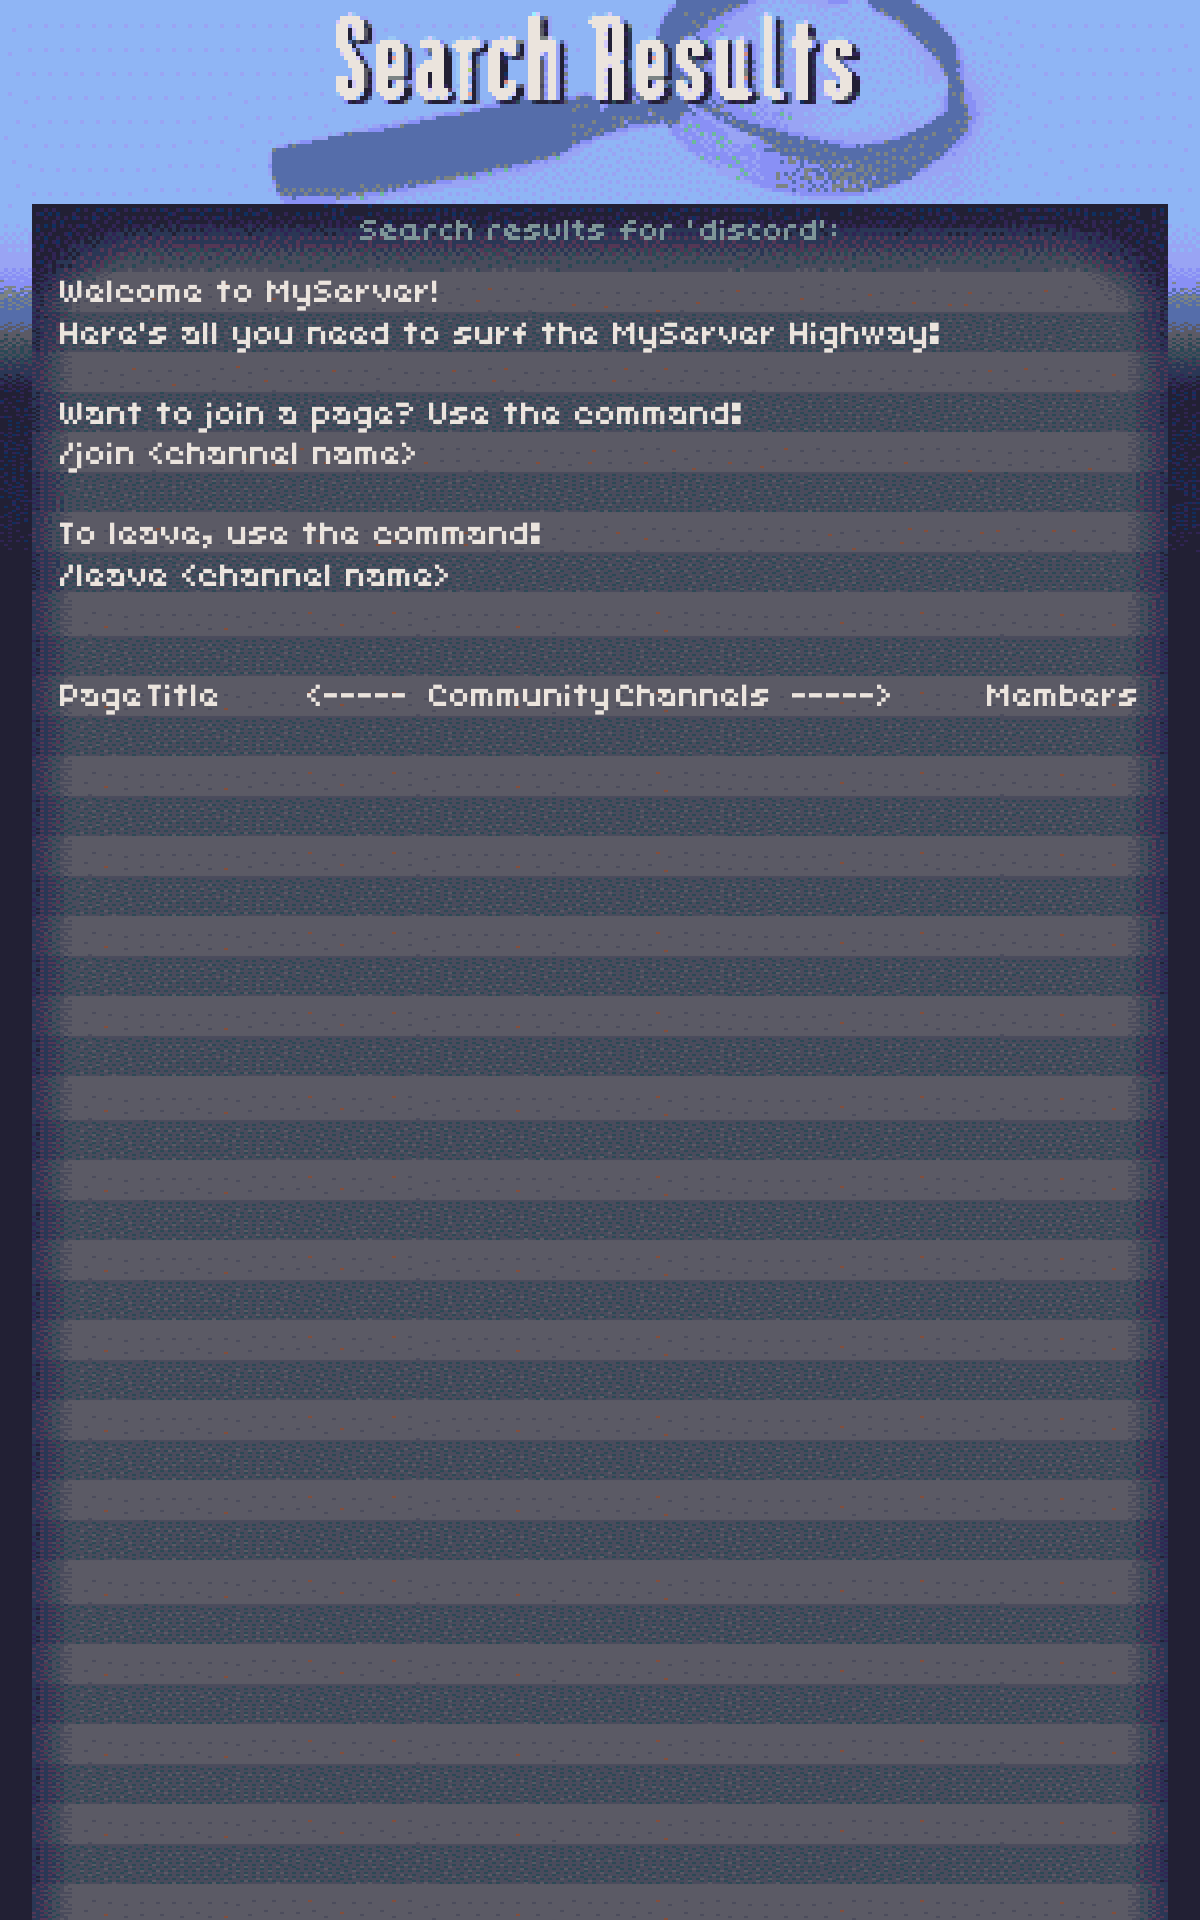
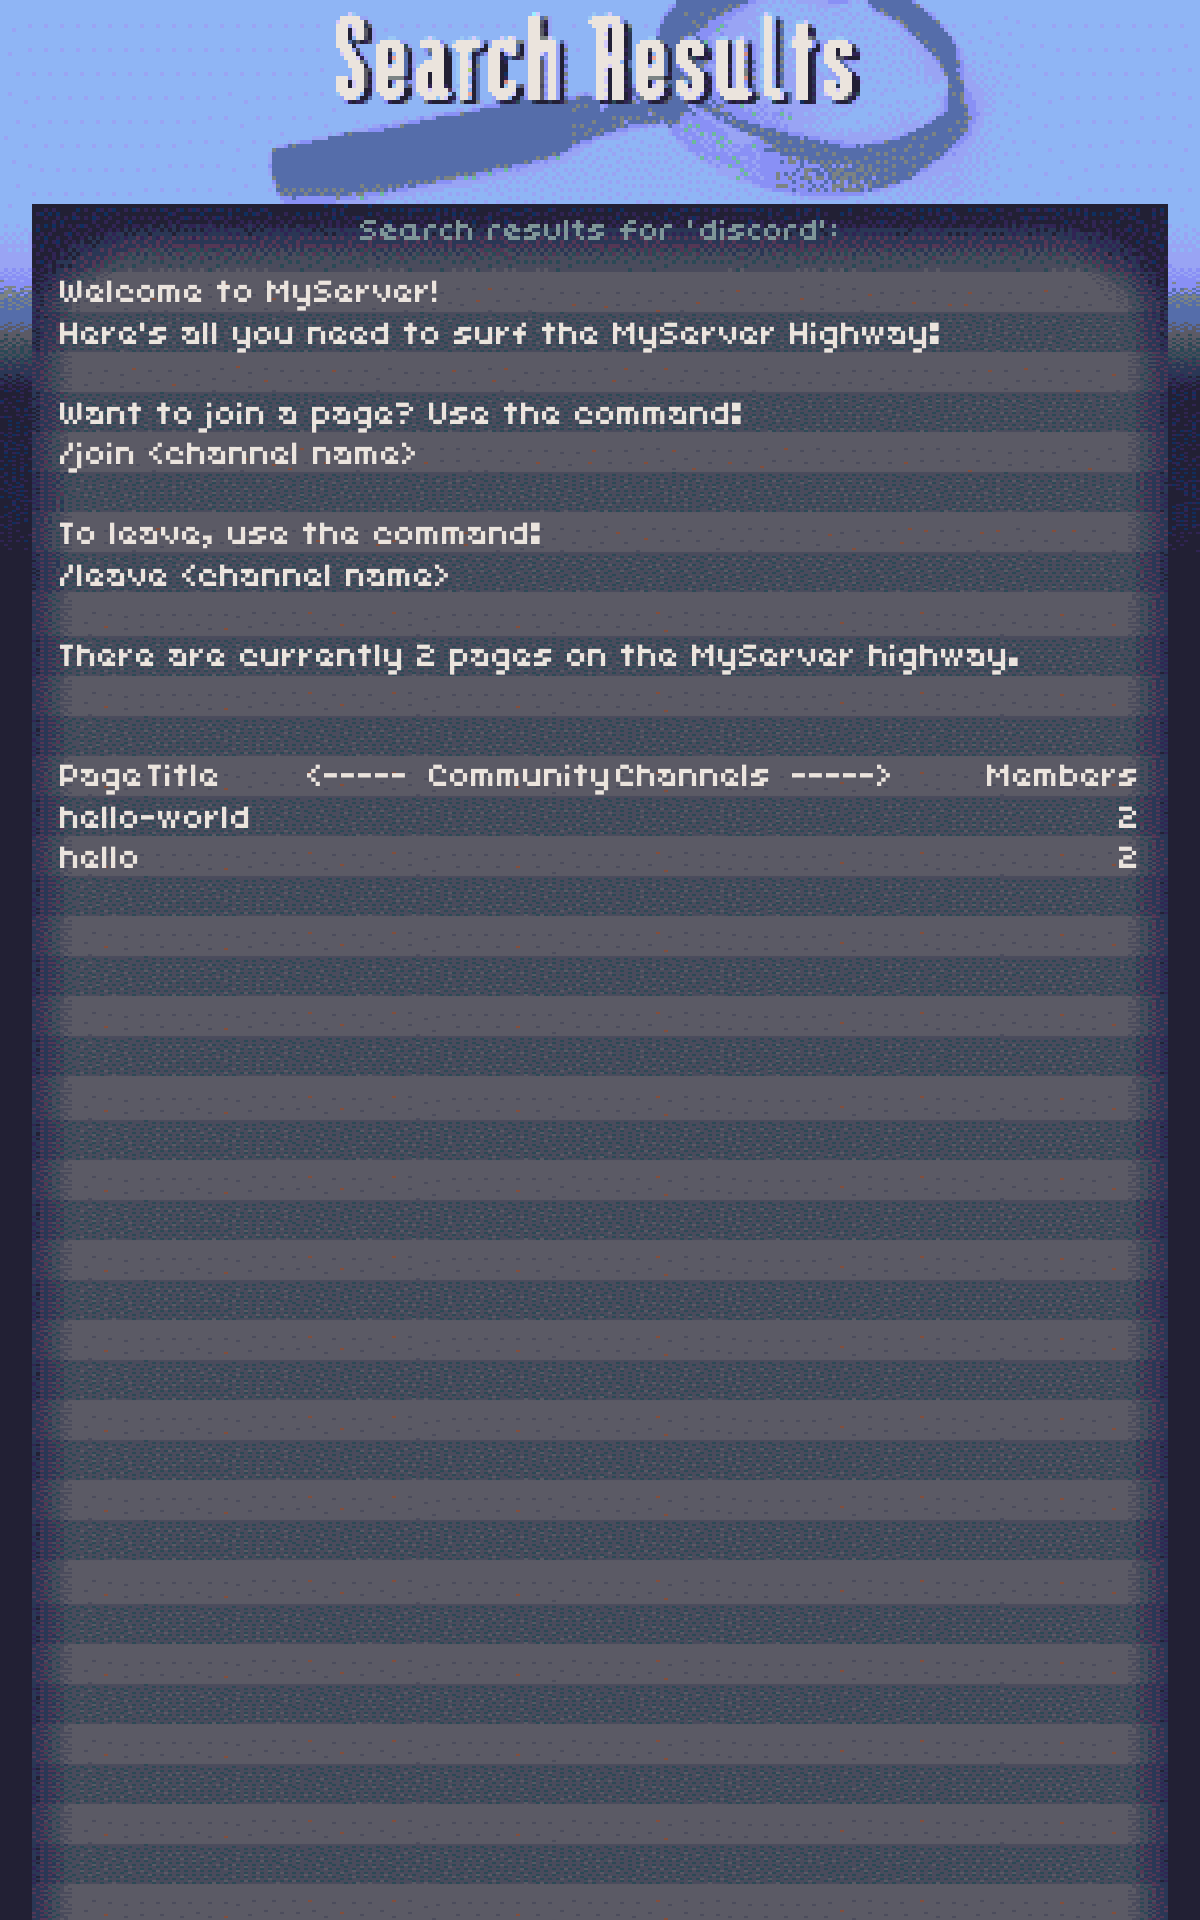
Prepare for stable

diff --git a/src/commands/Core/portal.ts b/src/commands/Core/portal.ts
@@ -8,6 +8,8 @@ import {
 } from '@sapphire/framework';
 import { MessageActionRow, MessageButton, MessageEmbed } from 'discord.js';
 import { updateGUI } from '../../lib/utils';
+import TimeAgo from 'javascript-time-ago'
+import en from 'javascript-time-ago/locale/en'
 
 @ApplyOptions<CommandOptions>({
 	name: 'portal',
@@ -24,19 +26,24 @@ export class PortalCommand extends Command {
 
 		const id = String(interaction.options.get('name')?.value) || '';
 		const categoryIds: String[] = await container.db.get(`categories_${interaction.guild.id}`) || [];
+		if (!id.match(/^[0-9]+$/)) return interaction.reply({ content: `> Sorry, that does not look like a valid channel.`, ephemeral: true });
 
 		const channel = await interaction.guild.channels.fetch(id);
-		if (!channel) throw new Error("Sorry, I could not find a channel with that ID.")
-		if (!channel.parentId) throw new Error("Sorry, that channel is not part of a category.");
-		if (!categoryIds.includes(channel.parentId)) throw new Error("Sorry, that channel is not joinable.");
+		if (!channel) return await interaction.reply({ content: `> Sorry, I could not find a channel with the specified ID.`, ephemeral: true });
+		if (!channel.parentId) return await interaction.reply({ content: `> Sorry, that channel is not part of a valid category.`, ephemeral: true });
+		if (!categoryIds.includes(channel.parentId)) return await interaction.reply({ content: `> Sorry, that channel is not joinable.`, ephemeral: true });
+
+		TimeAgo.addDefaultLocale(en);
+		const timeAgo = (new TimeAgo('en-US')).format(channel.createdTimestamp)
 
 		const embed = new MessageEmbed()
 			.setColor(0x8087f6)
-			.setTitle(`A portal to ${channel.name} was created!`)
-			.setDescription(`This channel current has ${channel.members.size.toLocaleString("en-US")} members.`)
-			.setFooter({ text: `This command was ran by ${interaction.user.tag}` });
+			.setThumbnail('https://fs.plexidev.org/api/UzNMDpe.gif')
+			.setTitle('A Portal Was Created!')
+			.setDescription(`**#${channel.name}** has ${channel.members.size.toLocaleString("en-US")} members and was created ${timeAgo}.`)
+			.setFooter({ text: `Portal created by ${interaction.user.tag}.` })
 
-		const rows = new MessageActionRow().addComponents(new MessageButton().setLabel('Join').setCustomId(`join_${channel.id}`).setStyle('PRIMARY'));
+		const rows = new MessageActionRow().addComponents(new MessageButton().setLabel('Join Page').setCustomId(`join_${channel.id}`).setStyle('PRIMARY'));
 
 		await interaction.reply({ embeds: [embed], components: [rows] });
 		await updateGUI(interaction.guild);

diff --git a/src/commands/Core/create.ts b/src/commands/Core/create.ts
@@ -49,7 +49,7 @@ export class CreateCommand extends Command {
 			},
 			{
 				id: interaction.user.id,
-				allow: ['VIEW_CHANNEL', 'MANAGE_CHANNELS', 'MANAGE_MESSAGES', 'MANAGE_THREADS']
+				allow: ['VIEW_CHANNEL', 'SEND_MESSAGES', 'MANAGE_CHANNELS', 'MANAGE_MESSAGES', 'MANAGE_THREADS']
 			}],
 			parent: category
 		});
@@ -58,7 +58,7 @@ export class CreateCommand extends Command {
 		const embed = new MessageEmbed()
 			.setColor(0x8349c3)
 			.setTitle(`Hello ${member.user.username}!`)
-			.setDescription(`I'm **Professor Helper**, let me introduce you to your new page in the wonderful world of **Hypnospace**!\n\nCurrently, you're the only person here. Although, others can join you by doing \`/join ${channel.name}\`, or by creating a \`/portal\` in another channel!\n\nLastly, while you have full permissions to manage this channel and send messages, others will only be able to view. But don't fret, you can create threads if you want to communicate with them!\n\nEnjoy!\n- Professor Helper`)
+			.setDescription(`I'm **Professor Helper**, let me introduce you to your new page in the wonderful world of **Hypnospace**!\n\nCurrently, you're the only person here. Although, others can join you by doing \`/join ${channel.name}\`, or by creating a \`/portal\` in another channel!\n\nLastly, while you have full permissions to manage this channel and send messages, others will only be able to view it.\n\nEnjoy!\n- Professor Helper`)
 			.setThumbnail('https://fs.plexidev.org/api/JBNtvtm.gif')
 			.setFooter({ text: 'And remember, Merchantsoft is always watching!' })
 

diff --git a/src/commands/Core/info.ts b/src/commands/Core/info.ts
@@ -1,0 +1,37 @@
+import { ApplyOptions } from '@sapphire/decorators';
+import {
+	Command,
+	CommandOptions,
+	RegisterBehavior,
+} from '@sapphire/framework';
+import { MessageEmbed } from 'discord.js';
+
+@ApplyOptions<CommandOptions>({
+	name: 'info',
+	description: 'Displays the information embed.',
+	requiredClientPermissions: ['EMBED_LINKS', 'MANAGE_CHANNELS'],
+	chatInputCommand: {
+		register: true,
+		guildIds: ['608178003393904650']
+	},
+})
+export class InfoCommand extends Command {
+	async chatInputRun(interaction: Command.ChatInputInteraction) {
+		if (!interaction.guild) throw new Error('Sorry, this command can only run in guilds.');
+
+		const embed = new MessageEmbed()
+			.setColor(0x8087f6)
+			.setDescription(`**The search engine is back online!** You can create pages using \`/create <name>\`, assuming you have the editor role. If you have an existing page, ping <@144645791145918464> to get access to manage it. Also, the source code is available [here](https://github.com/lorencerri/community-channels) if you want to check it out. **Enjoy!**`)
+			.setThumbnail('https://fs.plexidev.org/api/UzNMDpe.gif')
+		interaction.channel?.send({ embeds: [embed] });
+	}
+
+	registerApplicationCommands(registry: Command.Registry) {
+		registry.registerChatInputCommand((builder) =>
+			builder
+				.setName('info')
+				.setDescription('Displays the information embed'),
+			{ behaviorWhenNotIdentical: RegisterBehavior.Overwrite }
+		);
+	}
+}

diff --git a/src/commands/Core/leave.ts b/src/commands/Core/leave.ts
@@ -23,14 +23,15 @@ export class LeaveCommand extends Command {
 
 		const id = String(interaction.options.get('name')?.value) || '';
 		const categoryIds: String[] = await container.db.get(`categories_${interaction.guild.id}`) || [];
+		if (!id.match(/^[0-9]+$/)) return interaction.reply({ content: `> Sorry, that does not look like a valid channel.`, ephemeral: true });
 
 		const channel = await interaction.guild.channels.fetch(id);
-		if (!channel) throw new Error("Sorry, I could not find a channel with that ID.")
-		if (!channel.parentId) throw new Error("Sorry, that channel is not part of a category.");
-		if (!categoryIds.includes(channel.parentId)) throw new Error("Sorry, that channel is not leavable.");
+		if (!channel) return await interaction.reply({ content: `> Sorry, I could not find a channel with the specified ID.`, ephemeral: true });
+		if (!channel.parentId) return await interaction.reply({ content: `> Sorry, that channel is not part of a valid category.`, ephemeral: true });
+		if (!categoryIds.includes(channel.parentId)) return await interaction.reply({ content: `> Sorry, that channel is not leavable.`, ephemeral: true });
 
 		channel.permissionOverwrites.edit(interaction.user, { VIEW_CHANNEL: false });
-		await interaction.reply(`> Successully remove you from ${channel.toString()}`);
+		await interaction.reply(`> Successully removed you from ${channel.toString()}`);
 
 		await updateGUI(interaction.guild);
 	}

diff --git a/src/commands/Core/join.ts b/src/commands/Core/join.ts
@@ -23,11 +23,12 @@ export class JoinCommand extends Command {
 
 		const id = String(interaction.options.get('name')?.value) || '';
 		const categoryIds: String[] = await container.db.get(`categories_${interaction.guild.id}`) || [];
+		if (!id.match(/^[0-9]+$/)) return interaction.reply({ content: `> Sorry, that does not look like a valid channel.`, ephemeral: true });
 
 		const channel = await interaction.guild.channels.fetch(id);
-		if (!channel) throw new Error("Sorry, I could not find a channel with that ID.")
-		if (!channel.parentId) throw new Error("Sorry, that channel is not part of a category.");
-		if (!categoryIds.includes(channel.parentId)) throw new Error("Sorry, that channel is not joinable.");
+		if (!channel) return await interaction.reply({ content: `> Sorry, I could not find a channel with the specified ID.`, ephemeral: true });
+		if (!channel.parentId) return await interaction.reply({ content: `> Sorry, that channel is not part of a valid category.`, ephemeral: true });
+		if (!categoryIds.includes(channel.parentId)) return await interaction.reply({ content: `> Sorry, that channel is not joinable.`, ephemeral: true });
 
 		channel.permissionOverwrites.edit(interaction.user, { VIEW_CHANNEL: true });
 		await interaction.reply({ content: `> Successully added you to ${channel.toString()}`, ephemeral: true });

diff --git a/src/lib/utils.ts b/src/lib/utils.ts
@@ -70,11 +70,13 @@ export async function updateGUI(guild: Guild): Promise<any> {
 
 	// Generate the channel list text
 	const channelList = [];
+	let count = 0;
 	for (const [_, category] of categories.entries()) {
 		if (category.type !== 'GUILD_CATEGORY') continue;
 		channelList.push(['Page Title', `<-----     ${category.name}     ----->`, 'Members']);
 		for (const [_, channel] of category.children.entries()) {
 			channelList.push([channel.name, channel.members.size.toLocaleString("en-US")]);
+			count++;
 		}
 	}
 
@@ -88,6 +90,8 @@ export async function updateGUI(guild: Guild): Promise<any> {
 		'',
 		'To   leave,   use   the   command:',
 		'/leave   <channel   name>',
+		'',
+		`There   are   currently   ${count}   pages   on   the   ${guild.name}   highway.`,
 		'',
 		'',
 		...channelList
